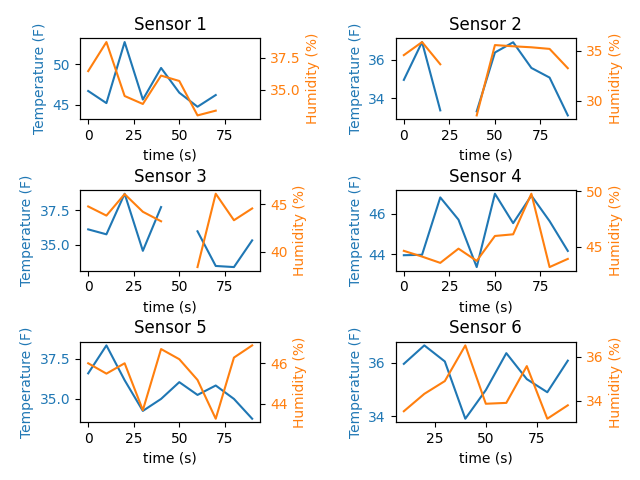
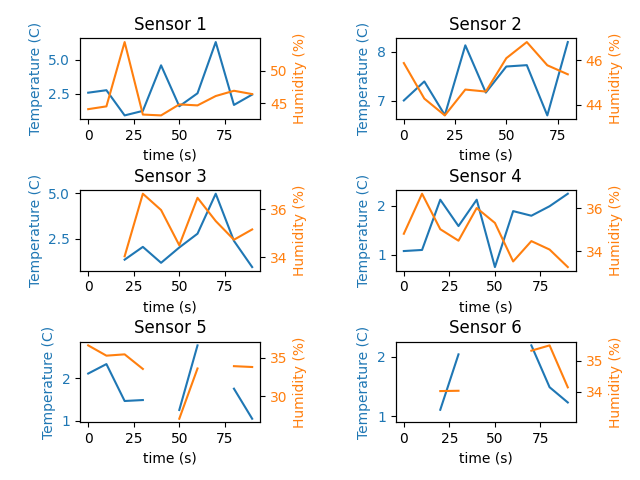
Made changes for master to work, having some sensor issues

diff --git a/NodeSocketConnection.js b/NodeSocketConnection.js
@@ -20,63 +20,6 @@ node_log = function(data){
 };
 
 
-// node_handleICommand = function(data){
-
-//   var num_str = data['trigger_id'][-3];
-
-//   var trigger_id = data['trigger_id'];
-
-//   var output_id = data['output_id'];
-
-//   $("#" + output_id).html(data['output']);
-
-// };
-
-// node_handleSCommand = function(data){
-
-//   var num_str = data['trigger_id'][-3];
-
-//   var trigger_id = data['trigger_id'];
-
-//   var output_id = data['output_id'];
-
-//   $("#" + output_id).html(data['output']);
-  
-// };
-
-// node_handleCCommand = function(data, timestamp){
-
-//   var start_time = data['timestamp']
-
-//   log(timestamp)
-//   log("StartTime" + start_time)
-
-//   $(".elapsedTime").html()
-//   // Dictionary where keys = sensor numbers and values are arrays of up to 10 strings of formatted output
-//   var outputs = data['output'];
-
-//   var sensor_num;
-
-//   var table = $(".recentSensorData")
-
-//   for (sensor_num in outputs) {
-
-//     var outputText_list = outputs[sensor_num];
-
-//     // Identify the list element we need to append to
-
-//     var sensor_list_el = $(".recentSensorData").find("ol#sensor" + sensor_num.toString() + "_list_data");
-
-//     sensor_list_el.empty();
-
-//     for (entry in outputText_list) {
-
-//       sensor_list_el.append("<li>" + outputText_list[entry] + "</li>")
-
-//     }
-//   }
-// };
-
 
 $(document).ready(function () {
 
@@ -93,7 +36,7 @@ $(document).ready(function () {
       node_log("Message Received: " + evt.data);
       
       var dataBack = JSON.parse(evt.data);
-      var timestamp = evt.timeStamp
+      var resp_timestamp = Date.now()
 
       command = dataBack['command']
 
@@ -106,7 +49,7 @@ $(document).ready(function () {
       }
 
       if(command == "C"){
-        handleCCommand(dataBack, timestamp)
+        handleCCommand(dataBack, resp_timestamp)
       }
 
 
@@ -169,8 +112,9 @@ $(document).ready(function () {
 
       var message = message_struct;
 
-      var timestamp = evt.timeStamp;
+      // var timestamp = evt.timeStamp;
 
+      var timestamp = Date.now()
       message['command']  = "C"
       message['trigger_id'] = this.id
       message['celsius_flag'] = node_celsius

diff --git a/TornadoSocketConnection.js b/TornadoSocketConnection.js
@@ -111,7 +111,8 @@
 
       command = dataBack['command']
 
-      var resp_timestamp = evt.timeStamp;
+      // var resp_timestamp = evt.timeStamp;
+      var resp_timestamp = Date.now()
 
       if(command == "I"){
         handleICommand(dataBack)
@@ -153,7 +154,8 @@
 
     $("#C_allData_Tornado").click(function(evt){
 
-      var timestamp = evt.timeStamp;
+      // var timestamp = evt.timeStamp;
+      var timestamp = Date.now()
       var message = message_struct;
 
       log(evt)

diff --git a/SensorProcess.js b/SensorProcess.js
@@ -20,12 +20,13 @@ console.log(' Sensor Number:', sensor.number);
 
 // Uses window.setInterval function, will repetadly execute this function every 10 seconds
 
-var count = 0;
-
+var count = -1;
 setInterval(function () {
 
-	if (count === 0){
+	if (count === -1){
 		clearTable();
+		count++;
+		return
 	}
 
 	// This code is executed in intervals set by the second argument in ms

diff --git a/Complex_UI_Routine.py b/Complex_UI_Routine.py
@@ -226,9 +226,9 @@ class AppWindow(QMainWindow):
 				temps[sensor_id].append(temp)
 				hums[sensor_id].append(humidity)
 
-		numEntries = len(temps[1])
+		# numEntries = len(temps[1])
 
-		timevals = np.arange(0, 10*numEntries, 10)
+		# timevals = np.arange(0, 10*numEntries, 10)
 
 		self.ui.plotWidget.canvas.fig.clear()
 		self.ui.plotWidget.canvas.ax = self.ui.plotWidget.canvas.fig.subplots(3, 2)
@@ -237,6 +237,9 @@ class AppWindow(QMainWindow):
 		for sensor_id in self.monitor.all_sensor_data.keys():
 			tempList = temps[sensor_id]
 			humList = hums[sensor_id]
+
+			numEntries = len(tempList)
+			timevals = np.arange(0, 10*numEntries, 10)
 			title = 'Sensor ' + str(sensor_id)
 			row = int((sensor_id-1) / 2)
 			col = (sensor_id-1) % 2

diff --git a/graph.py b/graph.py
@@ -28,14 +28,14 @@ def generate_graph(data, units):
             temps[sensor_id].append(temp)
             hums[sensor_id].append(humidity)
 
-    numEntries = len(temps[1])
 
-    timevals = np.arange(0, 10*numEntries, 10)
 
     fig, ax = plt.subplots(3, 2)
     fig.subplots_adjust(hspace=0.88, wspace=0.75, top=0.92, bottom=0.12)
     # Plot all the sensor data!
     for sensor_id in data.keys():
+        numEntries = len(temps[1])
+        timevals = np.arange(0, 10*numEntries, 10)
         tempList = temps[sensor_id]
         humList = hums[sensor_id]
         title = 'Sensor ' + str(sensor_id)

diff --git a/master.py b/master.py
@@ -31,13 +31,4 @@ def cleanup():
 atexit.register(cleanup)
 
 print('Welcome to the Temperature Sensor Simulation!')
-print('Which UI do you want to run?')
-val = input('Enter "T" for touchscreen or "H" for hardware: ')
-if val in ['T', 't']:
-    print('Touchscreen UI selected')
-    Complex_UI_Routine.UI_Run()
-elif val in ['H', 'h']:
-    print('Hardware UI selected')
-    Simple_UI_Routine.UI_Run()
-else:
-    print('Invalid Selection!')
+Complex_UI_Routine.UI_Run()

diff --git a/Monitor.py b/Monitor.py
@@ -90,10 +90,12 @@ class Monitor:
 
 	def get_last_sensor_data(self, sensor_number):
 
-		if(self.all_sensor_data): return self.all_sensor_data[sensor_number][-1]
+		try:
+			if(self.all_sensor_data): return self.all_sensor_data[sensor_number][-1]
 
-		else: return None
-		
+			else: return None
+		except:
+			return None
 
 	def get_specific_sensor_data_records(self, sensor_number, idx):
 
